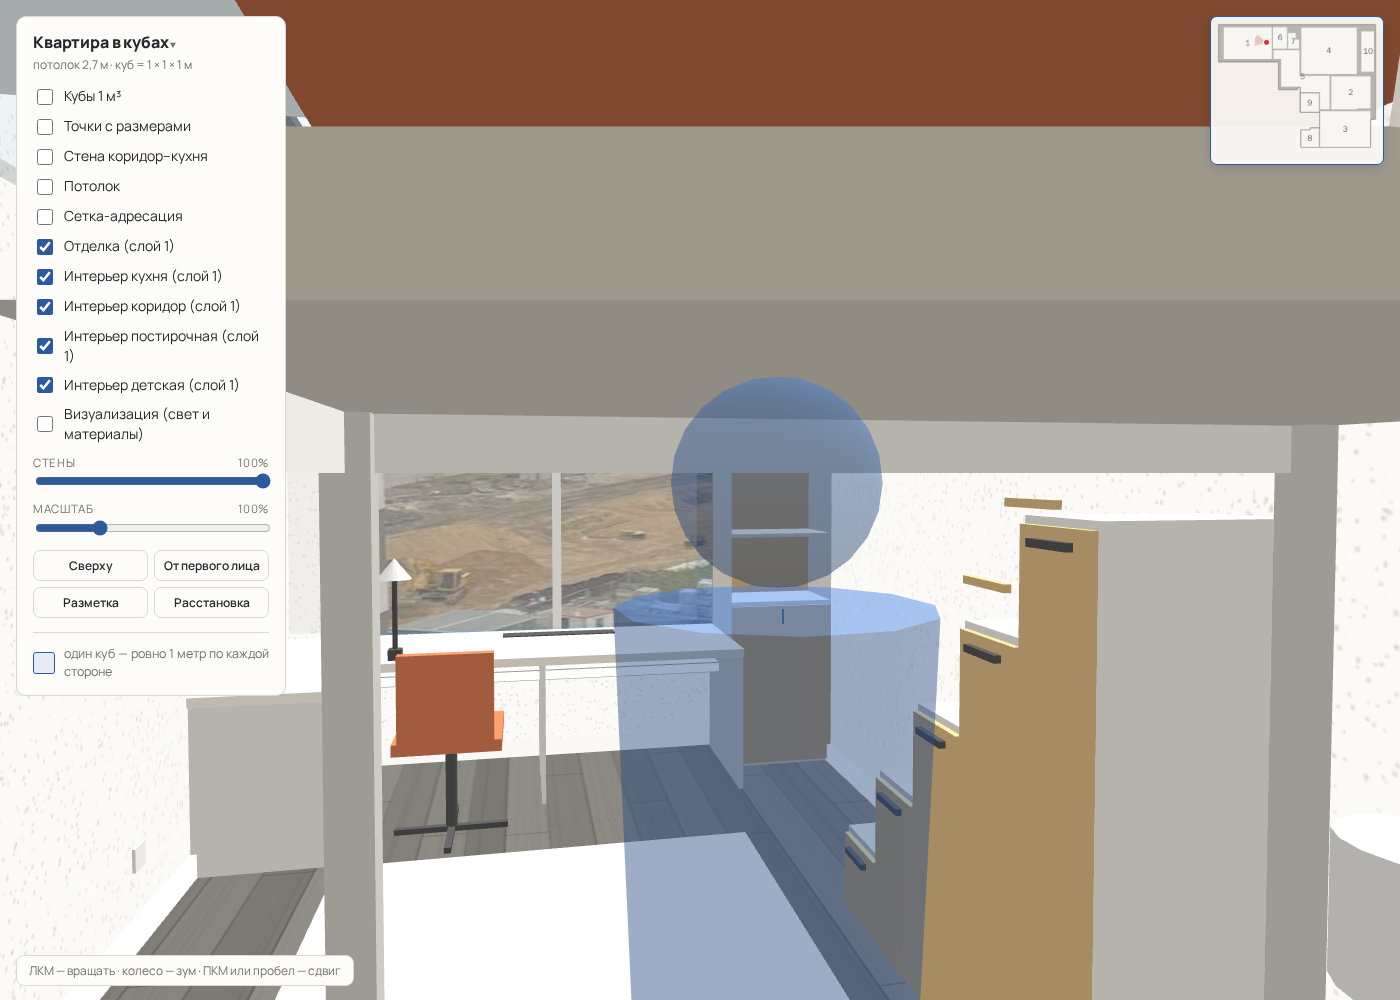
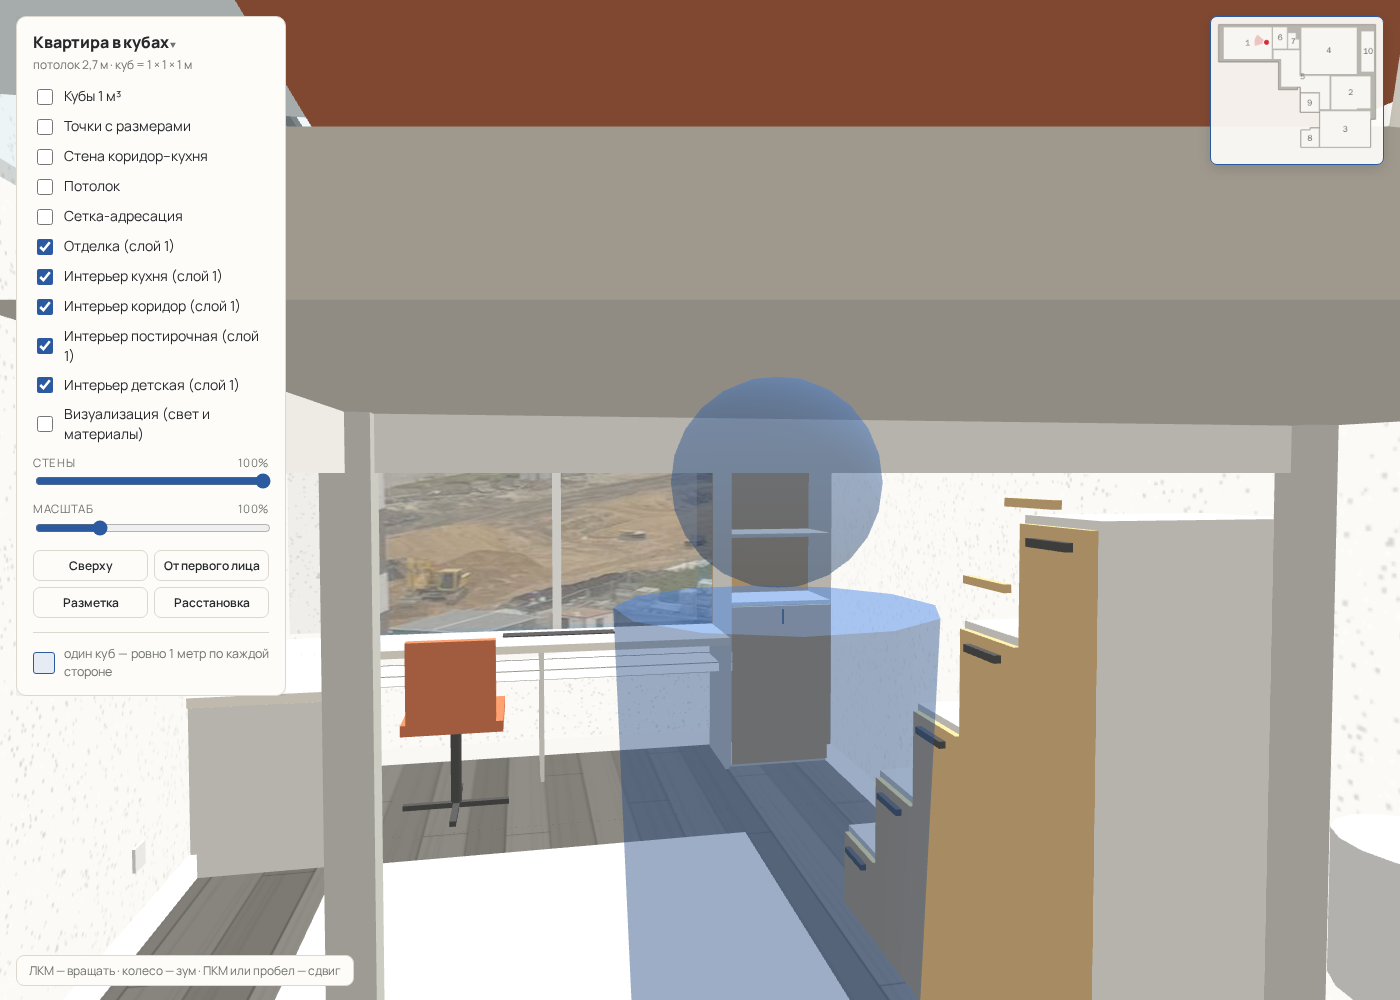
Комната 1: крыло стола у окна глубиной 0.45, как стеллаж; кресло и лампа к столу

Changed region(s): [[0.2764, 0.558, 0.5529, 0.837]]

diff --git a/items.js b/items.js
@@ -116,14 +116,14 @@ const PHYS={}; // id → boxes
      }},
     {id:'kiddesk',type:'угловой стол: вдоль окна 2.39 м и вдоль южной стены 1.23 м',room:1,layer:'kid',pos:[0.896,2.474],rot:0,size:[1.234,0.72,2.39],fixed:'wall',
      build(b){
-       b(0,0.75,0.68,0.72,0,2.39,mat.hpl); b(0.75,1.234,0.68,0.72,1.79,2.39,mat.hpl);                 // worktop: west wing and south wing (depth 0.60)
-       b(0.02,0.73,0,0.68,0,0.02,mat.kbody); b(1.214,1.234,0,0.68,1.81,2.37,mat.kbody);               // end panels: north (at the shelf unit) and east
-       b(0.05,0.73,0,0.68,0.98,1.0,mat.kbody);                                                        // middle support under the west wing, clear of the chair
+       b(0,0.45,0.68,0.72,0,2.39,mat.hpl); b(0.45,1.234,0.68,0.72,1.79,2.39,mat.hpl);                 // worktop: west wing (depth 0.45, like the shelf unit) and south wing (depth 0.60)
+       b(0.02,0.43,0,0.68,0,0.02,mat.kbody); b(1.214,1.234,0,0.68,1.81,2.37,mat.kbody);               // end panels: north (at the shelf unit) and east
+       b(0.05,0.43,0,0.68,0.98,1.0,mat.kbody);                                                        // middle support under the west wing, clear of the chair
        b(0.10,0.20,0.72,0.725,0.59,1.19,mat.knob);                                                     // vent grille over the radiator, 0.60 × 0.10
        b(0.10,0.52,0.03,0.63,1.83,2.33,mat.kbody);                                                     // mobile pedestal 0.42 × 0.50 × 0.60 under the corner
        [0.06,0.24,0.42].forEach(y=>{ b(0.52,0.53,y,y+0.16,1.84,2.32,mat.oak); b(0.53,0.545,y+0.1,y+0.12,2.0,2.16,mat.knob); }); // 3 drawers
      }},
-    {id:'kidchair',type:'рабочее кресло, регулируемое',room:1,layer:'kid',pos:[1.58,3.60],rot:0,size:[0.55,0.85,0.55],
+    {id:'kidchair',type:'рабочее кресло, регулируемое',room:1,layer:'kid',pos:[1.30,3.60],rot:0,size:[0.55,0.85,0.55],
      build(b,g){
        b(0.05,0.50,0.42,0.47,0.05,0.50,mat.terra); b(0.50,0.55,0.47,0.85,0.08,0.47,mat.terra);      // seat and back, faces the window
        const c=new THREE.Mesh(new THREE.CylinderGeometry(0.025,0.025,0.39,10),mat.knob); c.position.set(0.275,0.225,0.275); g.add(c); // gas lift
@@ -156,7 +156,7 @@ const PHYS={}; // id → boxes
      build(b,g){ const c=new THREE.Mesh(new THREE.CylinderGeometry(0.25,0.25,0.04,32),mat.lamp); c.position.set(0.25,2.68,0.25); g.add(c); }},
     {id:'track',type:'трек с 2 спотами на галерейную стену',room:1,layer:'kid',pos:[1.90,4.22],rot:0,size:[2.20,2.70,0.06],fixed:'wall',
      build(b){ b(0,2.2,2.67,2.70,0.015,0.045,mat.knob); [0.6,1.6].forEach(x=>b(x,x+0.06,2.55,2.67,0,0.06,mat.knob)); }},
-    {id:'desklamp',type:'настольная лампа на струбцине, 3000–4000 K',room:1,layer:'kid',pos:[1.45,4.05],rot:0,size:[0.20,1.20,0.20],
+    {id:'desklamp',type:'настольная лампа на струбцине, 3000–4000 K',room:1,layer:'kid',pos:[1.30,4.35],rot:0,size:[0.20,1.20,0.20],
      build(b,g){ b(0.07,0.13,0.72,0.77,0.07,0.13,mat.knob); const a=new THREE.Mesh(new THREE.CylinderGeometry(0.012,0.012,0.36,8),mat.knob); a.position.set(0.10,0.95,0.10); g.add(a);
        const s=new THREE.Mesh(new THREE.ConeGeometry(0.08,0.10,16,1,true),mat.lamp); s.position.set(0.10,1.15,0.10); g.add(s); }},
     {id:'bra1',type:'бра над диванчиком, поворотное',room:1,layer:'kid',pos:[5.20,2.79],rot:0,size:[0.245,1.35,0.16],fixed:'wall',

diff --git a/tasks/room1-kid/README.md b/tasks/room1-kid/README.md
@@ -364,7 +364,7 @@ issue: —
   крыло не длиннее — иначе до габарита кровати < 0.70. Кресло M2 в углу `[1.58, 3.60]`.
 - Стеллаж M3 заменён узким 0.60 × 0.40 × 2.50 в северо-западном углу, спиной к западной стене, фасадом к двери (`rot 270`).
   Перекрывает 0.36 м окна (окно с z 2.11). Тюль M14 начинается от стеллажа.
-- Розетка M24 переехала с северной стены на южную над крылом стола (x 2.06); M27 — x 2.56. Затем убраны и акцентная панель M30, и pegboard M9 (`.local/del1.png`); трек M16 оставлен.
+- Розетка M24 переехала с северной стены на южную над крылом стола (x 2.06); M27 — x 2.56. Затем убраны и акцентная панель M30, и pegboard M9 (`.local/del1.png`); трек M16 оставлен. Крыло стола у окна сужено до 0.45 (`.local/eva_window_1.png`), кресло `[1.30, 3.60]`, лампа на южном крыле.
 
 ## Что не делалось (дизайнером)
 
